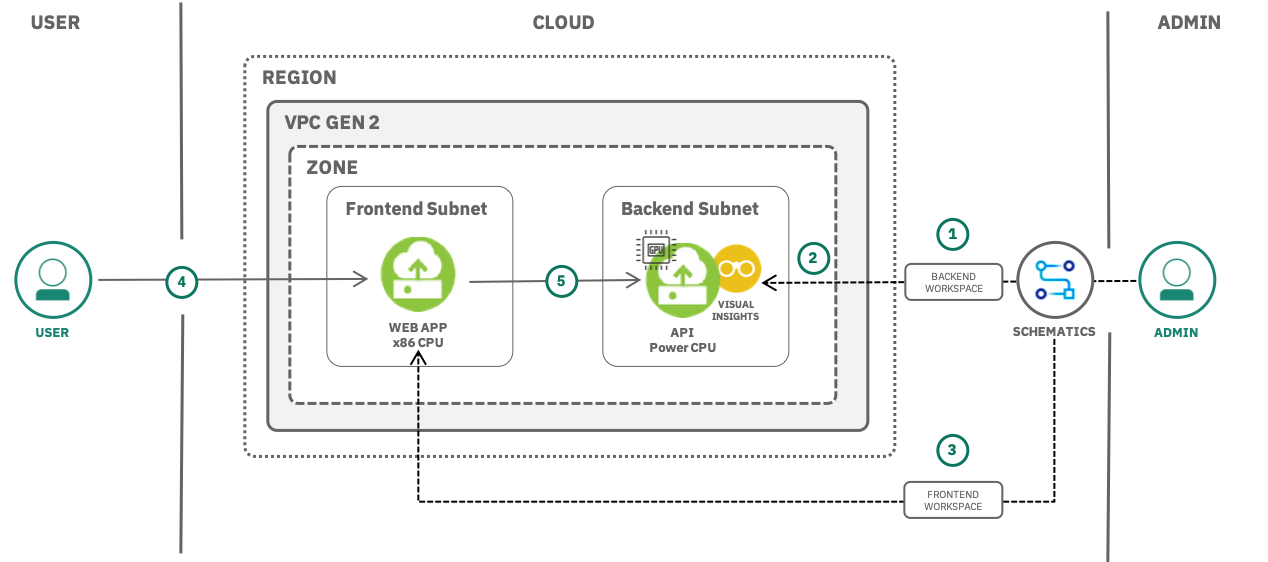
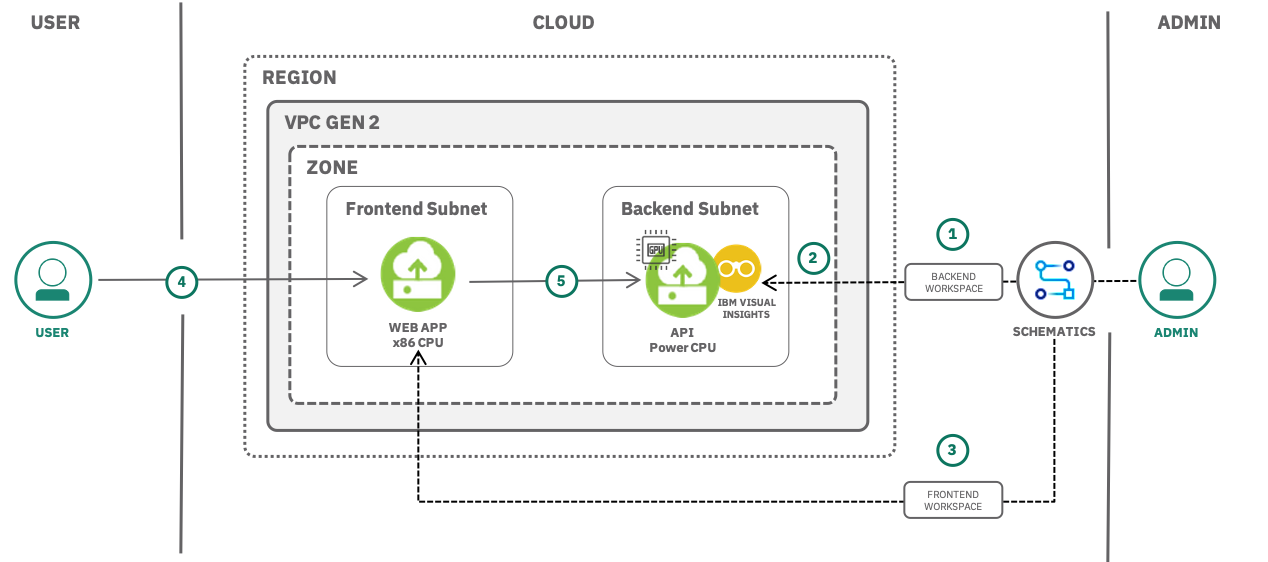
2020-04-06 17:19:41+0000 (dd4c3acfa0dfbf131774c14d1b2d1ceb25dcfad2)

diff --git a/computer-vision-visual-insights-schematics.md b/computer-vision-visual-insights-schematics.md
@@ -2,7 +2,7 @@
 subcollection: solution-tutorials
 copyright:
   years: 2019, 2020
-lastupdated: "2020-04-03"
+lastupdated: "2020-04-06"
 lasttested: "2020-04-01"
 ---
 
@@ -13,7 +13,7 @@ lasttested: "2020-04-01"
 {:tip: .tip}
 {:pre: .pre}
 
-# Computer vision with {{site.data.keyword.visualinsightsshort}} and {{site.data.keyword.bpshort}}
+# Computer vision with {{site.data.keyword.IBM_notm}} {{site.data.keyword.visualinsightsshort}} and {{site.data.keyword.bpshort}}
 {: #computer-vision-visual-insights-schematics}
 
 This tutorial walks you through provisioning a dedicated backend virtual server instance (VSI) of {{site.data.keyword.IBM_notm}} {{site.data.keyword.visualinsightsshort}} (previously PowerAI Vision) in {{site.data.keyword.vpc_full}}(VPC) through {{site.data.keyword.bplong}}. Once provisioned, you will upload an image data set, train, deploy, and test an optimized deep learning (image classification) model through a GPU on the VSI. You will also deploy a front-end web application through {{site.data.keyword.bplong_notm}} to a new VSI on the same {{site.data.keyword.vpc_short}}. Once deployed, you will upload an image for classification by communicating with the backend deployed model exposed an an API.
@@ -21,12 +21,12 @@ This tutorial walks you through provisioning a dedicated backend virtual server 
 
 Videos and images have become one of the most interesting data sets for artificial intelligence. In particular, deep learning is being used to create models for computer vision, and you can train these models to let your applications recognize what an image (or video) represents.
 
-[{{site.data.keyword.IBM_notm}} {{site.data.keyword.visualinsightsshort}} (previously PowerAI Vision)](https://www.ibm.com/us-en/marketplace/ibm-visual-insights) is a new generation video and image analysis platform that offers built-in deep learning models that learn to analyze images and video streams for classification and object detection. {{site.data.keyword.visualinsightsshort}} includes tools and interfaces that allow anyone with limited skills in deep learning technologies to get up and running quickly and easily. And because {{site.data.keyword.visualinsightsshort}} is built on open source frameworks for modeling and managing containers it delivers a highly available platform that includes application life-cycle support, centralized management and monitoring, and support from IBM.
+[{{site.data.keyword.IBM_notm}} {{site.data.keyword.visualinsightsshort}} (previously PowerAI Vision)](https://www.ibm.com/us-en/marketplace/ibm-visual-insights) is a new generation video and image analysis platform that offers built-in deep learning models that learn to analyze images and video streams for classification and object detection. {{site.data.keyword.IBM_notm}} {{site.data.keyword.visualinsightsshort}} includes tools and interfaces that allow anyone with limited skills in deep learning technologies to get up and running quickly and easily. And because {{site.data.keyword.IBM_notm}} {{site.data.keyword.visualinsightsshort}} is built on open source frameworks for modeling and managing containers it delivers a highly available platform that includes application life-cycle support, centralized management and monitoring, and support from IBM.
 
 ## Objectives
 {: #objectives}
 
-* Use {{site.data.keyword.bpshort}} to deploy a virtual server instance running {{site.data.keyword.visualinsightsshort}} on Power CPU in {{site.data.keyword.vpc_short}}.
+* Use {{site.data.keyword.bpshort}} to deploy a virtual server instance running {{site.data.keyword.IBM_notm}} {{site.data.keyword.visualinsightsshort}} on Power CPU in {{site.data.keyword.vpc_short}}.
 * Train and test an image classification model.
 * Augment the VPC environment by deploying an image classification application to a new virtual server instance.
 
@@ -44,8 +44,8 @@ This tutorial may incur costs. Use the [Pricing Calculator](https://{DomainName}
 
   ![Architecture](images/solution53-visual-insights-schematics/architecture_diagram.png)
 
-1. Admin creates a backend workspace on {{site.data.keyword.bpshort}} and uses a Terraform template to provision a virtual server instance(VSI) running {{site.data.keyword.visualinsightsshort}}.
-2. Once the environment is provisioned, the admin logs into the {{site.data.keyword.visualinsightsshort}} backend app and deploys a deep learning model(API) for image classification.
+1. Admin creates a backend workspace on {{site.data.keyword.bpshort}} and uses a Terraform template to provision a virtual server instance(VSI) running {{site.data.keyword.IBM_notm}} {{site.data.keyword.visualinsightsshort}}.
+2. Once the environment is provisioned, the admin logs into the {{site.data.keyword.IBM_notm}} {{site.data.keyword.visualinsightsshort}} backend app and deploys a deep learning model(API) for image classification.
 3. Admin deploys a web application to a front-end subnet on the same {{site.data.keyword.vpc_short}} by creating a front-end workspace on the same {{site.data.keyword.bpshort}}.
 4. User uploads an image to the front-end web app for classification.
 5. The front-end sends the uploaded images to the backend for classification and displays the results on the web page.
@@ -60,10 +60,10 @@ This tutorial requires:
 
 You will find instructions to download and install these tools for your operating environment in the [Getting started with tutorials](/docs/tutorials?topic=solution-tutorials-getting-started) guide.
 
-## Provision a virtual server instance with {{site.data.keyword.visualinsightsshort}} using {{site.data.keyword.bpshort}}
+## Provision a virtual server instance with {{site.data.keyword.IBM_notm}} {{site.data.keyword.visualinsightsshort}} using {{site.data.keyword.bpshort}}
 {:#provision_VPC_backend_vsi}
 
-In this section, you will provision a VPC with {{site.data.keyword.visualinsightsshort}} installed on a virtual server instance via {{site.data.keyword.bplong_notm}} service. {{site.data.keyword.bplong_notm}} delivers Terraform-as-a-Service so that you can use a high-level scripting language to model the resources that you want in your {{site.data.keyword.Bluemix_notm}} environment, and enable Infrastructure-as-Code (IaC).
+In this section, you will provision a VPC with {{site.data.keyword.IBM_notm}} {{site.data.keyword.visualinsightsshort}} installed on a virtual server instance via {{site.data.keyword.bplong_notm}} service. {{site.data.keyword.bplong_notm}} delivers Terraform-as-a-Service so that you can use a high-level scripting language to model the resources that you want in your {{site.data.keyword.Bluemix_notm}} environment, and enable Infrastructure-as-Code (IaC).
 
 ### Create a {{site.data.keyword.bplong_notm}} backend workspace
 {:#backend_workspace}
@@ -89,8 +89,8 @@ Once applied, the workspace will lead to the provisioning of:
 
 1. Click on **Apply plan**.
 1. Click on **View log** next to the current running plan to follow the logs.
-1. Wait for the plan to complete. It may take around 20 minutes for Schematics to download and install {{site.data.keyword.IBM_notm}} {{site.data.keyword.visualinsightsshort}} on the VSI.
-1. Save the **Outputs** from the log for quick reference.
+2. Wait for the plan to complete. It may take around 20 minutes for Schematics to download and install {{site.data.keyword.IBM_notm}} {{site.data.keyword.visualinsightsshort}} on the VSI.
+3. Save the **Outputs** from the log for quick reference.
 
 ## Train, deploy and test the image classification model
 {: #train_deploy_dl_model}
@@ -102,7 +102,7 @@ In this section, you will create a weather data set from the images you download
 ### Train the model
 {: #train_model}
 
-1. Access the application via the **{{site.data.keyword.visualinsightsshort}}** URL saved from the log output and login with the **{{site.data.keyword.visualinsightsshort}}** credentials provided in the log. Click **Get started**.
+1. Access the application via the **{{site.data.keyword.IBM_notm}} {{site.data.keyword.visualinsightsshort}}** URL saved from the log output and login with the **{{site.data.keyword.IBM_notm}} {{site.data.keyword.visualinsightsshort}}** credentials provided in the log. Click **Get started**.
 
    Ignore the certificate warning as the SSL certificate is self signed with no potential security threats.
    {:tip}
@@ -165,7 +165,7 @@ In this section, you will deploy a web application to a new VSI and upload an im
     <tbody>
         <tr>
             <td>ibmcloud_api_key</td>
-            <td>Enter the IBM Cloud API key. Use the same API key used for {{site.data.keyword.visualinsightsshort}} backend</td>
+            <td>Enter the IBM Cloud API key. Use the same API key used for {{site.data.keyword.IBM_notm}} {{site.data.keyword.visualinsightsshort}} backend</td>
             <td>string</td>
             <td></td>
             <td>ENTER THE KEY HERE without any trailing spaces</td>
@@ -173,7 +173,7 @@ In this section, you will deploy a web application to a new VSI and upload an im
         </tr>
          <tr>
             <td>vpc_id</td>
-            <td>Check the Schematics output of {{site.data.keyword.visualinsightsshort}} backend</td>
+            <td>Check the Schematics output of {{site.data.keyword.IBM_notm}} {{site.data.keyword.visualinsightsshort}} backend</td>
             <td>string</td>
             <td></td>
             <td>ENTER THE ID HERE without any trailing space</td>
@@ -181,7 +181,7 @@ In this section, you will deploy a web application to a new VSI and upload an im
         </tr>
         <tr>
             <td>visual_insights_model_api_url</td>
-            <td>The deployed model API URL of {{site.data.keyword.visualinsightsshort}}</td>
+            <td>The deployed model API URL of {{site.data.keyword.IBM_notm}} {{site.data.keyword.visualinsightsshort}}</td>
             <td>string</td>
             <td></td>
             <td>ENTER THE URL HERE without any trailing spaces</td>
